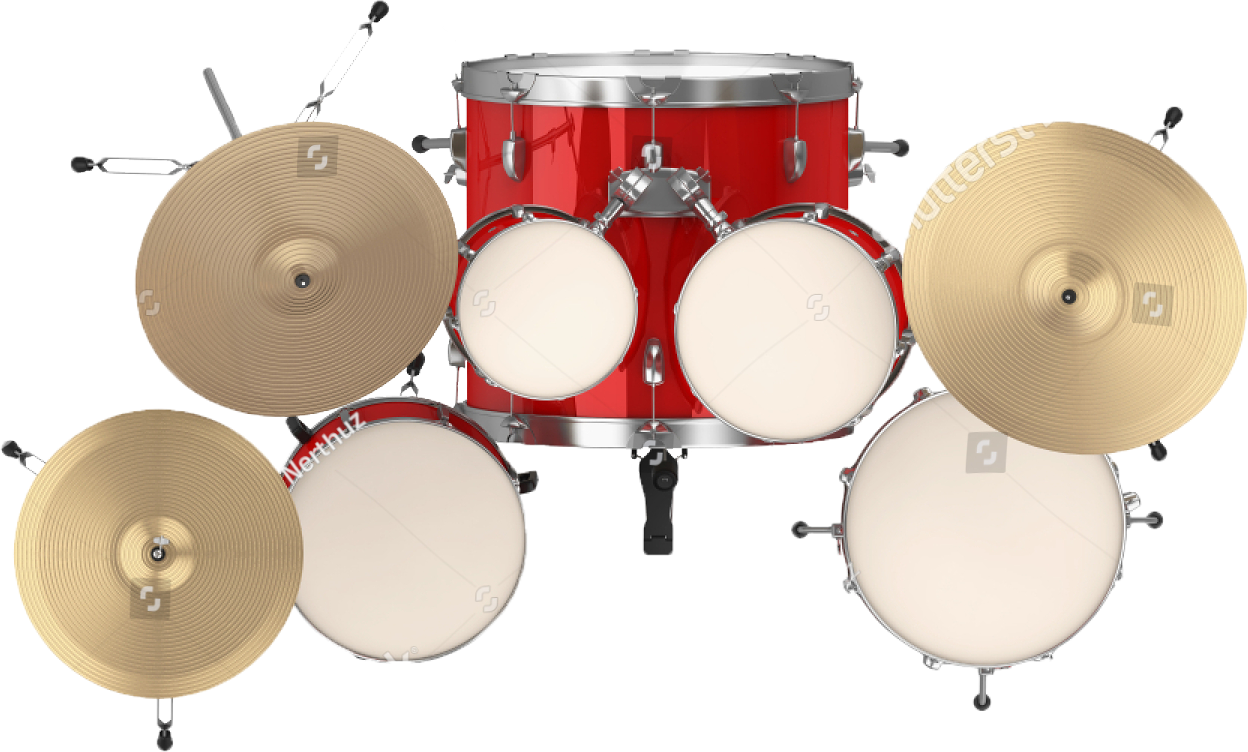
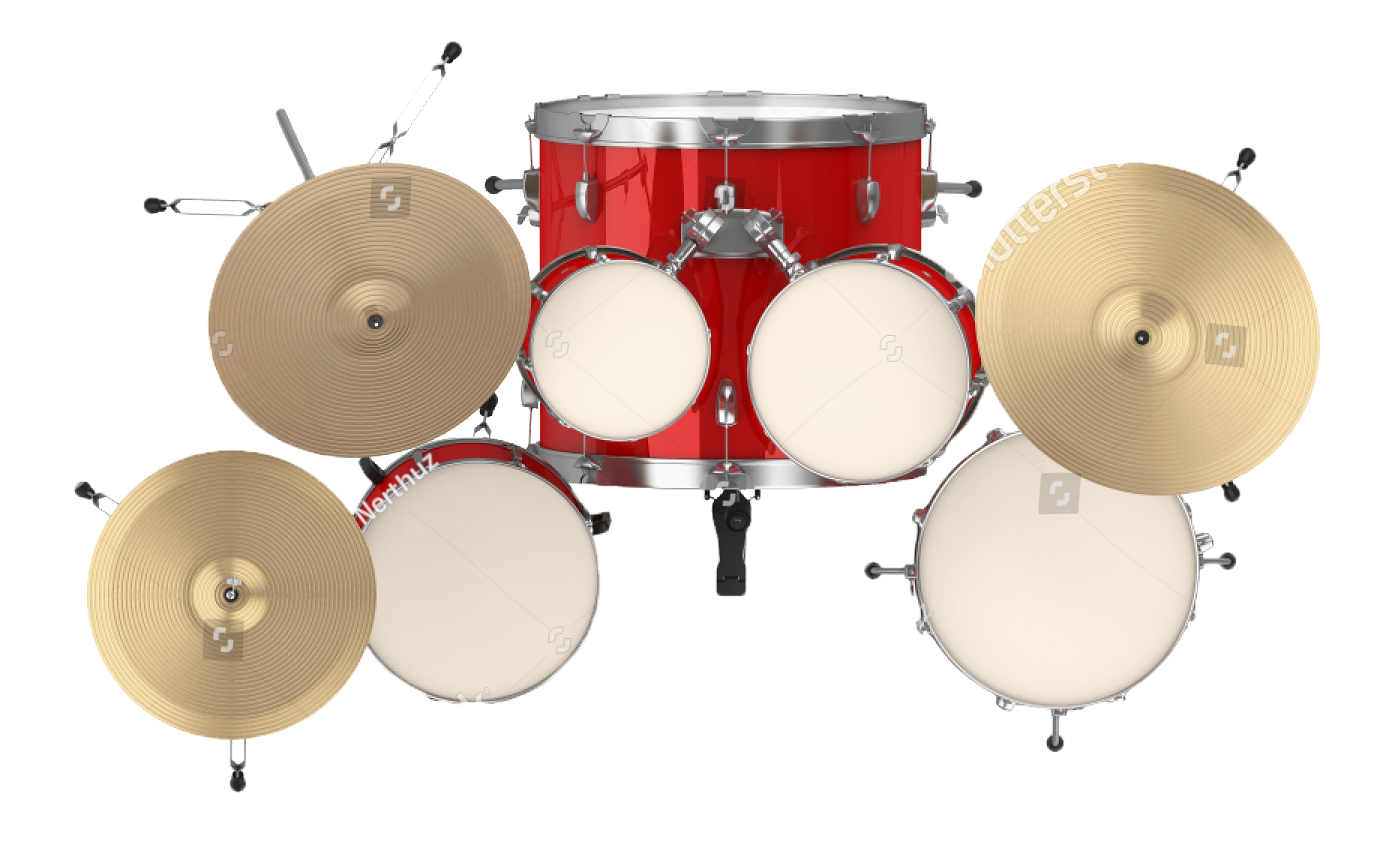
Fixed overlay drum issue on key press

Changed region(s): [[0.0, 0.0612, 1.0, 1.0], [0.2812, 0.0, 0.3438, 0.0918]]

diff --git a/src/styles/drums.css b/src/styles/drums.css
@@ -1,17 +1,11 @@
 .drum-kit {
   display: flex;
-  /* width: 500px;
-  height: 500px; */
-  /* max-width: 100%; */
-  object-fit: contain;
   justify-content: center;
   align-items: center;
 }
 
 .drum-kit-bg {
-
   position: relative;
-  width: 100%;
   z-index: 1;
 }
 

diff --git a/src/App.js b/src/App.js
@@ -36,7 +36,7 @@ function App() {
           ))
         }
       </select>
-      <div className="drum-contain">
+      <div className="drum-container">
         <Drum kit={drumKits.find((kit) => kit.kitName === selectedKitName)} className="drum" />
       </div>
 

diff --git a/src/styles/hitMask.css b/src/styles/hitMask.css
@@ -2,6 +2,8 @@
   position: absolute;
   z-index: 3;
   object-fit: contain;
+  max-width: 1395px;
+  max-height: 844px;
 }
 
 .snare {
